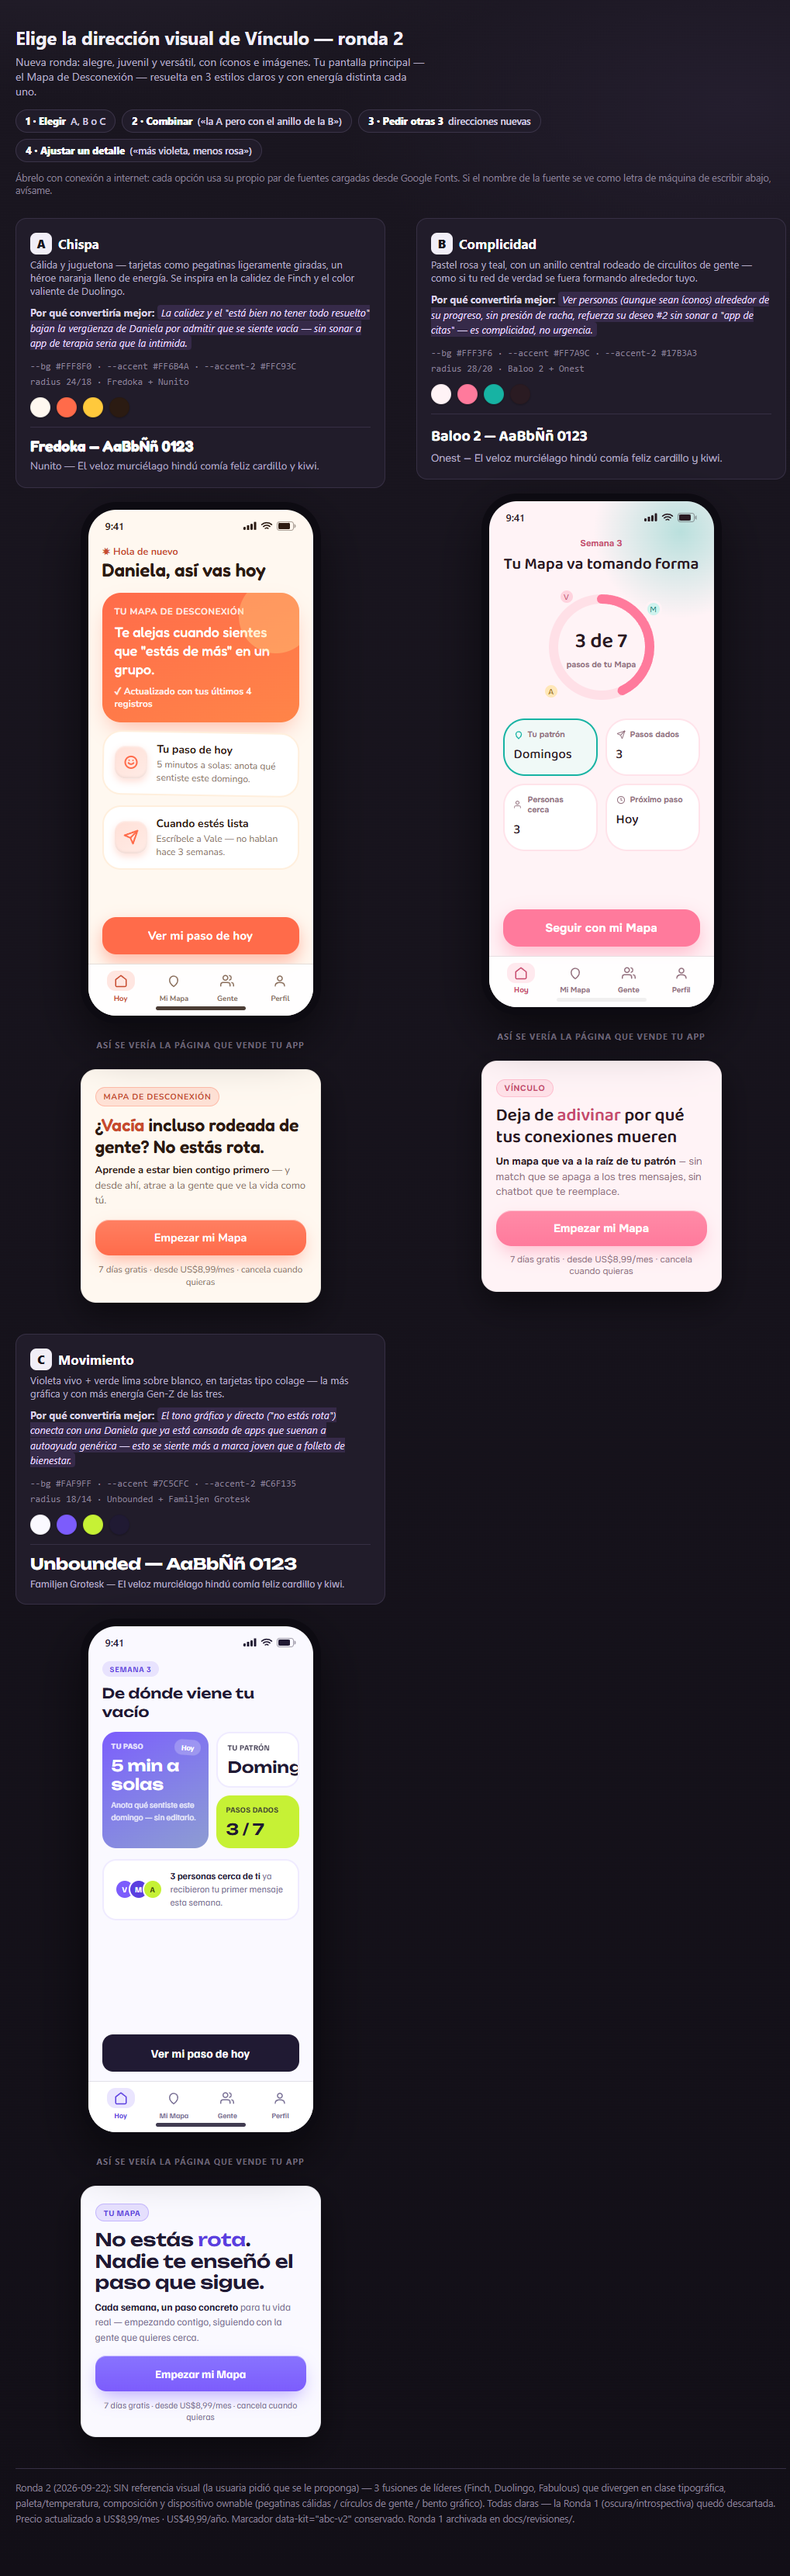
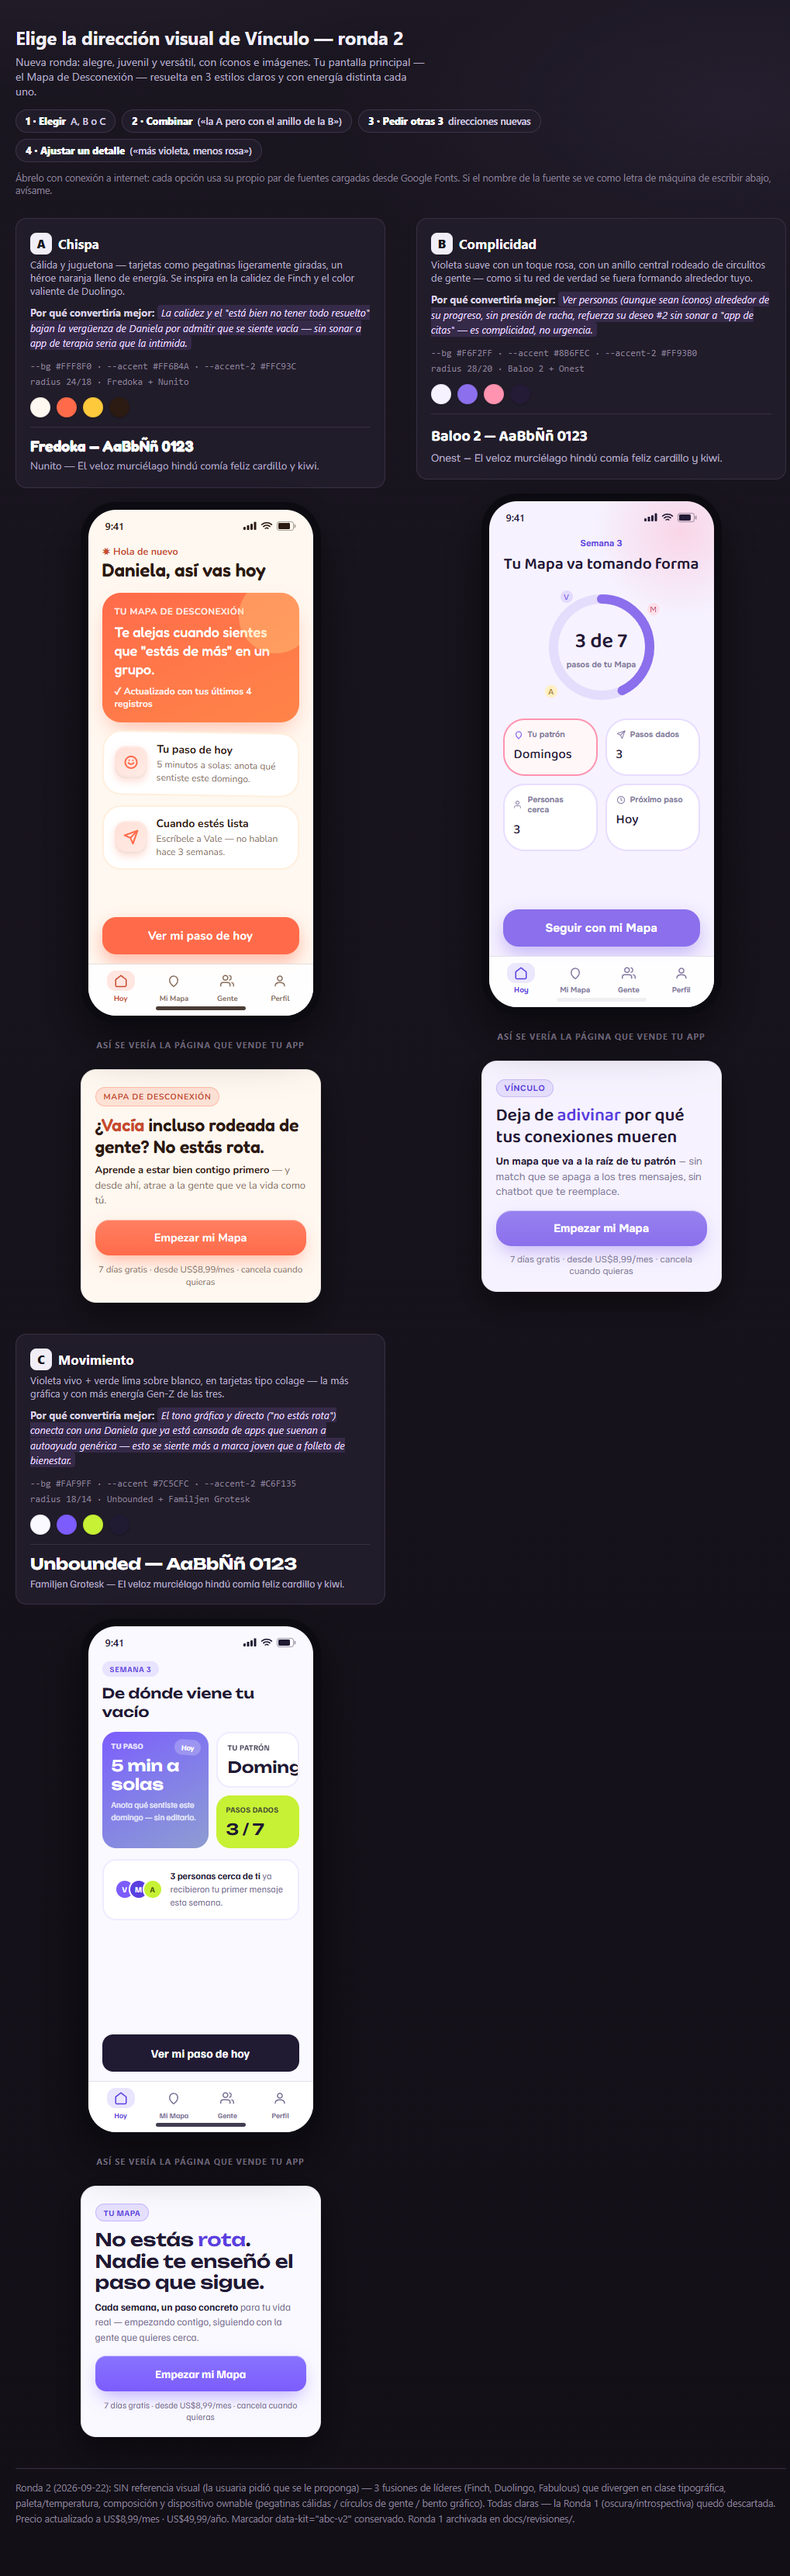
design: opción B ajustada a violeta (preferida por la usuaria)

diff --git a/direcciones-abc.html b/direcciones-abc.html
@@ -111,9 +111,9 @@
 
   /* ===================== OPCIÓN B — "Complicidad" (pastel rosa+teal, círculos de gente) ===================== */
   .op-b {
-    --bg: #FFF3F6; --surface: #FFFFFF; --surface-2: #FFE3EA;
-    --text-1: #2A1B22; --text-2: #93707E;
-    --accent: #FF7A9C; --accent-2: #17B3A3; --accent-text: #C74B6E;
+    --bg: #F6F2FF; --surface: #FFFFFF; --surface-2: #E7DDFF;
+    --text-1: #241B36; --text-2: #8478A0;
+    --accent: #8B6FEC; --accent-2: #FF93B0; --accent-text: #5B3FE0;
     --radius-card: 28px; --radius-btn: 20px;
     --font-display: 'Baloo 2', monospace; --font-body: 'Onest', monospace;
     --shadow-tinta: 255 122 156;
@@ -283,17 +283,17 @@
   <section class="opcion op-b" aria-label="Opción B">
     <div class="meta">
       <h2><span class="letra">B</span> Complicidad</h2>
-      <p class="direccion">Pastel rosa y teal, con un anillo central rodeado de circulitos de gente — como si tu red de verdad se fuera formando alrededor tuyo.</p>
+      <p class="direccion">Violeta suave con un toque rosa, con un anillo central rodeado de circulitos de gente — como si tu red de verdad se fuera formando alrededor tuyo.</p>
       <p class="hipotesis"><strong>Por qué convertiría mejor:</strong>
         <span class="slot">Ver personas (aunque sean íconos) alrededor de su progreso, sin presión de racha, refuerza su deseo #2 sin sonar a "app de citas" — es complicidad, no urgencia.</span>
       </p>
       <ul class="tokens">
-        <li>--bg #FFF3F6 · --accent #FF7A9C · --accent-2 #17B3A3</li>
+        <li>--bg #F6F2FF · --accent #8B6FEC · --accent-2 #FF93B0</li>
         <li>radius 28/20 · Baloo 2 + Onest</li>
       </ul>
       <div class="paleta" aria-hidden="true">
-        <span style="background:#FFF3F6"></span><span style="background:#FF7A9C"></span>
-        <span style="background:#17B3A3"></span><span style="background:#2A1B22"></span>
+        <span style="background:#F6F2FF"></span><span style="background:#8B6FEC"></span>
+        <span style="background:#FF93B0"></span><span style="background:#241B36"></span>
       </div>
       <div class="especimen">
         <p class="esp-display">Baloo 2 — AaBbÑñ 0123</p>
@@ -318,20 +318,20 @@
 
         <div class="anillo-wrap">
           <svg width="148" height="148" viewBox="0 0 148 148" role="img" aria-label="3 de 7 pasos dados">
-            <circle cx="74" cy="74" r="62" fill="none" stroke-width="12" stroke="rgba(255,122,156,0.16)"/>
-            <circle cx="74" cy="74" r="62" fill="none" stroke-width="12" stroke="#FF7A9C" stroke-linecap="round"
+            <circle cx="74" cy="74" r="62" fill="none" stroke-width="12" stroke="rgba(139,111,236,0.16)"/>
+            <circle cx="74" cy="74" r="62" fill="none" stroke-width="12" stroke="#8B6FEC" stroke-linecap="round"
                     stroke-dasharray="389.6" stroke-dashoffset="222.6" transform="rotate(-90 74 74)"/>
           </svg>
           <div class="centro"><span class="pct">3 de 7</span><span class="pct-label">pasos de tu Mapa</span></div>
-          <span class="amigo-dot" style="top:-2px; left:18px; background:#FFD3DE; color:#C74B6E;">V</span>
-          <span class="amigo-dot" style="top:14px; right:-4px; background:#CFF3EE; color:#0E8477;">M</span>
-          <span class="amigo-dot" style="bottom:6px; left:-2px; background:#FFE7B8; color:#96650B;">A</span>
+          <span class="amigo-dot" style="top:-2px; left:18px; background:#E3DBFF; color:#5B3FE0;">V</span>
+          <span class="amigo-dot" style="top:14px; right:-4px; background:#FFE0EA; color:#C74B6E;">M</span>
+          <span class="amigo-dot" style="bottom:6px; left:-2px; background:#FFEFC2; color:#96650B;">A</span>
         </div>
 
         <div class="grid2x2">
           <div class="tile destacada">
             <p class="t-label">
-              <svg width="12" height="12" viewBox="0 0 24 24" fill="none" stroke="#17B3A3" stroke-width="2.6" stroke-linecap="round" stroke-linejoin="round" aria-hidden="true"><path d="M12 22c4-3 7-6.5 7-11a7 7 0 0 0-14 0c0 4.5 3 8 7 11Z"/></svg>
+              <svg width="12" height="12" viewBox="0 0 24 24" fill="none" stroke="#8B6FEC" stroke-width="2.6" stroke-linecap="round" stroke-linejoin="round" aria-hidden="true"><path d="M12 22c4-3 7-6.5 7-11a7 7 0 0 0-14 0c0 4.5 3 8 7 11Z"/></svg>
               Tu patrón
             </p>
             <p class="t-dato">Domingos</p>

diff --git a/ESTADO.md b/ESTADO.md
@@ -1,7 +1,7 @@
 # ESTADO — Vínculo
 Última actualización: 2026-09-09 | Sesión actual: 1
 
-⏸ CHECKPOINT — Última acción completada: Sesión 2, ronda 2 — la usuaria rechazó la paleta oscura de la ronda 1 ("aburrido y plano"); se ajustaron avatar (autoconocimiento antes que conexión), mecanismo (vuelve a "Mapa de Desconexión") y precio (US$8,99/mes · US$49,99/año); se construyeron y verificaron 3 direcciones nuevas SIN referencia — claras, alegres, juveniles (Chispa/Complicidad/Movimiento) en direcciones-abc.html + docs/revisiones/direcciones-abc-v2-full.png / Siguiente acción exacta: esperar su elección (A/B/C, combinar, otras 3, o ajustar) → tour de la app → cerrar FICHA-ARTE.md
+⏸ CHECKPOINT — Última acción completada: la usuaria prefirió la Opción B "Complicidad" pidiendo más violeta que rosa; se reajustó la paleta de B (violeta #8B6FEC líder, rosa #FF93B0 solo nota secundaria) y se re-verificó (docs/revisiones/direcciones-abc-v2-opcion-b.png) / Siguiente acción exacta: confirmar con la usuaria que B-violeta queda aprobada → construir el tour de la app (vista-previa-app.html, 4-5 vistas) → cerrar FICHA-ARTE.md
 
 ## Qué es esta app (3 líneas máximo)
 App de bienestar emocional para mujeres de 25-35 que se sienten vacías incluso rodeadas de gente. Un proceso personalizado por etapas ("el Mapa de Desconexión") que primero construye en ellas la capacidad de estar bien en soledad, y desde ahí les da un paso concreto por semana para atraer a quienes comparten su nueva forma de ver la vida — gente que ya conocen o gente nueva. Sin matching entre desconocidos y sin chatbot de compañía. Monetización: suscripción económica (prueba gratis + plan anual destacado), vendida por Hotmart.

diff --git a/FICHA-ARTE.md b/FICHA-ARTE.md
@@ -22,7 +22,8 @@
 
 ## Trazabilidad y vetos
 - Ronda 1 DESCARTADA por la usuaria — paleta índigo/violeta oscura NO vetada para futuros proyectos del SO (no llegó a aprobarse, el registro anti-repetición solo aplica a direcciones cerradas).
-- Ronda 2: Protocolo A/B/C nuevo — `direcciones-abc.html` (raíz del proyecto, reemplaza al v1) + screenshot verificado en `docs/revisiones/direcciones-abc-v2-full.png` (v1 sigue archivado como `direcciones-abc-full.png`). Opciones: A "Chispa" (Fredoka+Nunito, coral/amarillo) · B "Complicidad" (Baloo 2+Onest, rosa/teal) · C "Movimiento" (Unbounded+Familjen Grotesk, violeta/lima). Elegida: PENDIENTE de la usuaria.
-- Tour de la app: PENDIENTE (se construye tras elegir la dirección de la Ronda 2).
+- Ronda 2: Protocolo A/B/C nuevo — `direcciones-abc.html` (raíz del proyecto, reemplaza al v1) + screenshot verificado en `docs/revisiones/direcciones-abc-v2-full.png` (v1 sigue archivado como `direcciones-abc-full.png`). Opciones A "Chispa" y C "Movimiento": descartadas.
+- **B "Complicidad" — PREFERIDA por la usuaria (2026-09-22), ajustada a violeta**: Baloo 2 + Onest · `--bg` #F6F2FF · `--accent` #8B6FEC (violeta, líder) · `--accent-2` #FF93B0 (rosa, solo nota secundaria) · `--text-1` #241B36 · `--text-2` #8478A0 · radius 28 (cards) / 20 (botón). Screenshot de la opción sola: `docs/revisiones/direcciones-abc-v2-opcion-b.png`. Pendiente: confirmación final de la usuaria antes de pasar al tour.
+- Tour de la app: PENDIENTE (se construye tras la confirmación final de B).
 
 ## Idioma UI: español LATAM neutro · Fecha de cierre de la ficha: PENDIENTE · Aprobada por la usuaria: PENDIENTE
